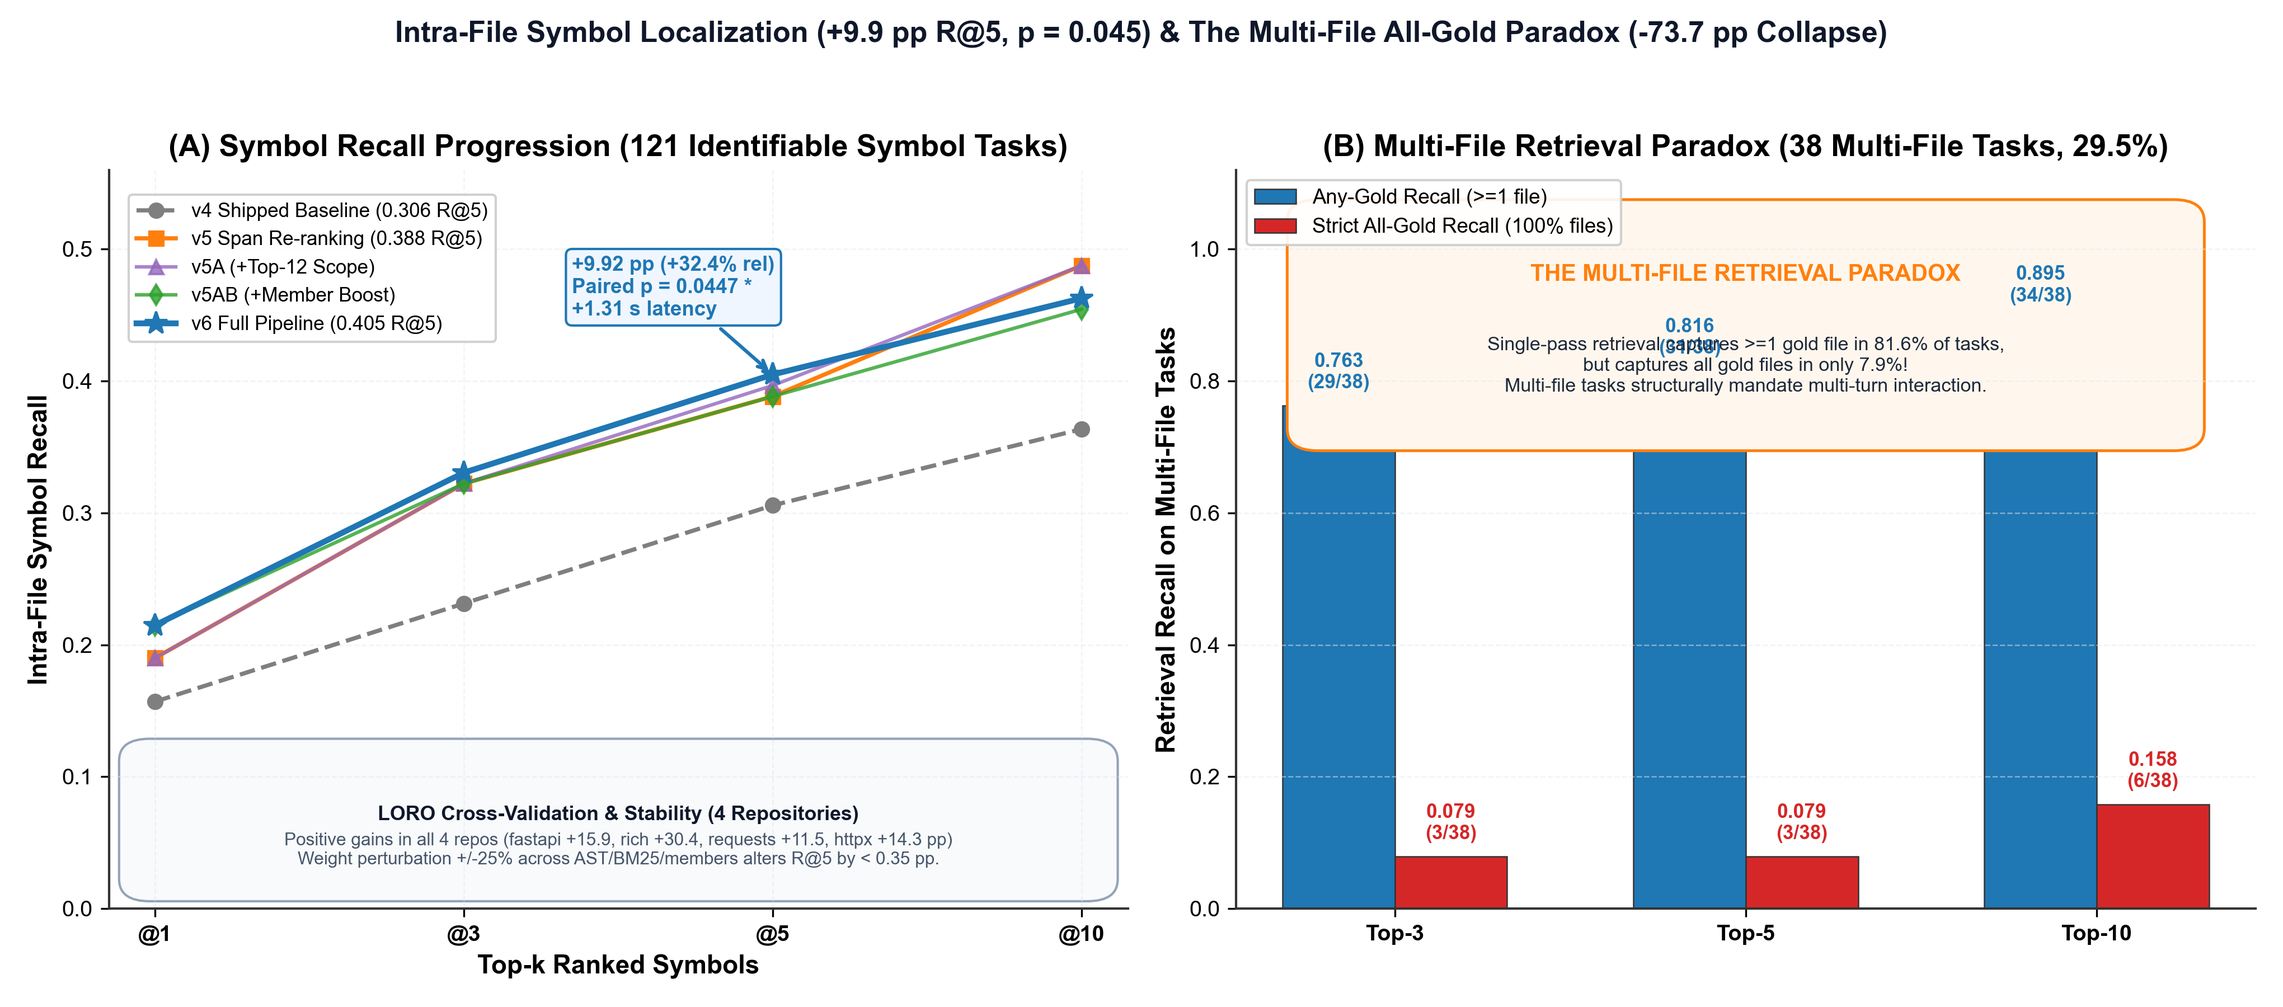
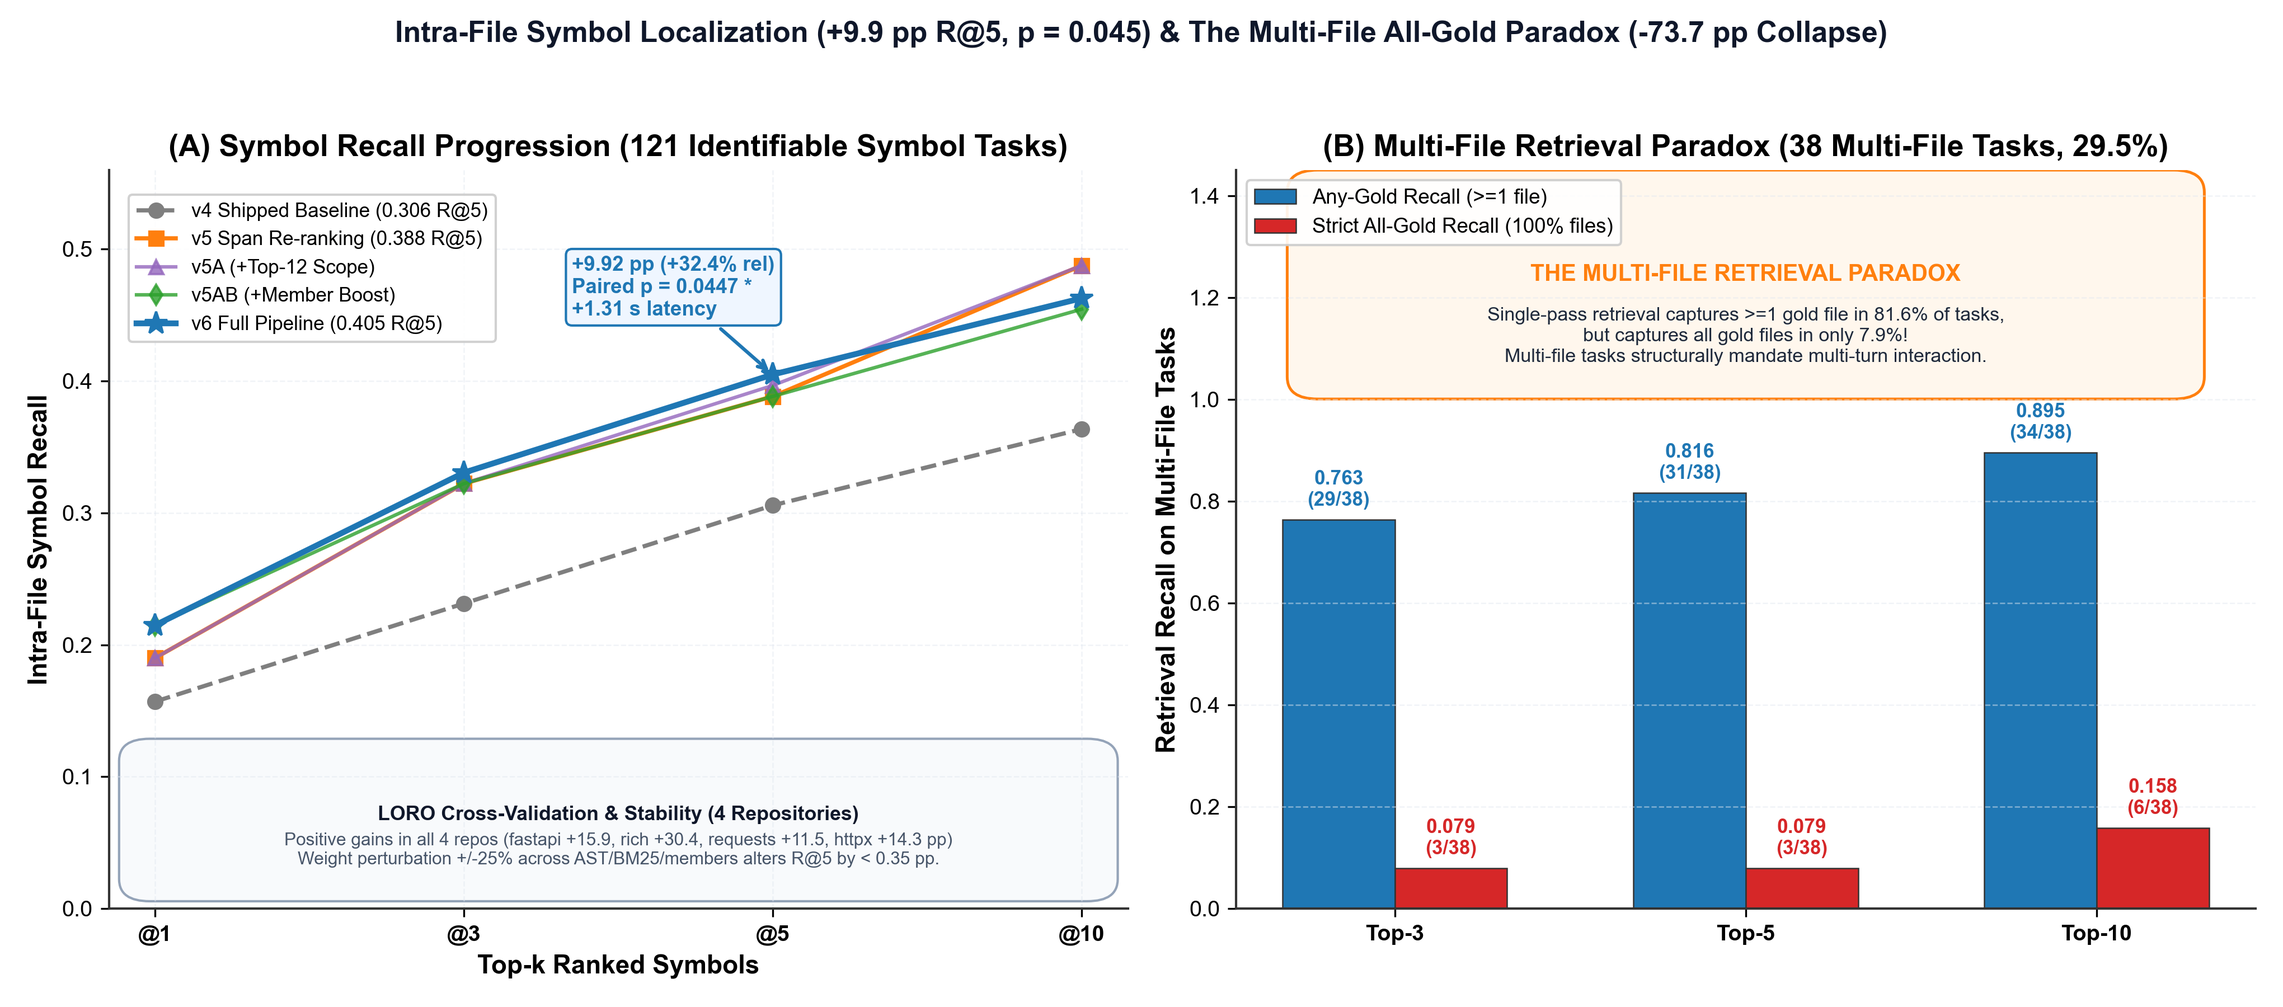
fix(figures): eliminate all text overlaps, label clipping, and box collisions across paper and resource figures

diff --git a/scripts/generate_paper_figures.py b/scripts/generate_paper_figures.py
@@ -307,13 +307,11 @@ def render_fig1_harness_architecture():
         ax.text(x + 0.16, y + h - 0.70, sub, fontsize=8.4, weight="semibold", color="#475569")
         ax.text(x + 0.16, y + 0.32, desc, fontsize=8.4, color="#1e293b", linespacing=1.28)
 
-    # Subtle connectors from top pipeline to row 1
-    ax.plot([1.8, 1.8, 2.37], [6.60, 6.40, 6.30], color=C_BLUE, lw=1.2, ls=":")
-    ax.plot([8.2, 8.2, 6.57], [6.60, 6.40, 6.30], color=C_PURPLE, lw=1.2, ls=":")
-    ax.plot([8.2, 8.2, 10.77], [6.60, 6.40, 6.30], color=C_PURPLE, lw=1.2, ls=":")
-    ax.plot([11.4, 11.4, 2.37], [6.60, 6.40, 3.40], color=C_GREEN, lw=1.0, ls=":")
-    ax.plot([1.8, 1.8, 6.57], [6.60, 6.40, 3.40], color=C_BLUE, lw=1.0, ls=":")
-    ax.plot([11.4, 11.4, 10.77], [6.60, 6.40, 3.40], color=C_GREEN, lw=1.0, ls=":")
+    # Clean orthogonal connectors from top pipeline to row 1 cards
+    ax.plot([1.8, 1.8], [6.60, 6.30], color=C_BLUE, lw=1.5, ls=":")
+    ax.plot([5.0, 5.0, 6.57], [6.60, 6.45, 6.30], color="#0284c7", lw=1.2, ls=":")
+    ax.plot([8.2, 8.2, 10.77], [6.60, 6.45, 6.30], color=C_PURPLE, lw=1.2, ls=":")
+    ax.plot([11.4, 11.4], [6.60, 6.30], color=C_GREEN, lw=1.5, ls=":")
 
     plt.tight_layout(rect=[0, 0, 1, 0.96])
     out_p = ASSETS_DIR / "fig1_harness_architecture.png"
@@ -355,17 +353,17 @@ def render_fig2_retrieval_2x2_decomposition():
     ax1.set_title("(A) Regime A: Static Graph Retrieval (125 In-Graph Tasks)")
     ax1.set_xticks(x)
     ax1.set_xticklabels(ranks, weight="semibold")
-    ax1.set_ylim(0, 0.72)
+    ax1.set_ylim(0, 0.95)
     ax1.grid(axis="y", alpha=0.5)
     despine(ax1)
     ax1.legend(loc="upper left", bbox_to_anchor=(0.01, 0.99), frameon=True, framealpha=0.95, facecolor="#ffffff", edgecolor="#cccccc", fontsize=8.6)
 
-    # Inset callout box: 80.9% (313/387) cap exceedance
-    inset_box = patches.FancyBboxPatch((0.44, 0.60), 0.53, 0.34, boxstyle="round,pad=0.03",
+    # Inset callout box: 80.9% (313/387) cap exceedance (cleanly above bars)
+    inset_box = patches.FancyBboxPatch((0.46, 0.68), 0.51, 0.29, boxstyle="round,pad=0.03",
                                        facecolor="#fef2f2", edgecolor=C_RED, linewidth=1.2, transform=ax1.transAxes)
     ax1.add_patch(inset_box)
-    ax1.text(0.70, 0.86, "M3 Context Exceedance Trap", color=C_RED, fontsize=9.2, weight="bold", ha="center", transform=ax1.transAxes)
-    ax1.text(0.70, 0.67, "80.9% (313 / 387)\nof raw 1-hop AST neighborhoods\nexceed the 5,000-char tool cap!\nUnpruned hubs explode token limits.",
+    ax1.text(0.71, 0.90, "M3 Context Exceedance Trap", color=C_RED, fontsize=9.2, weight="bold", ha="center", transform=ax1.transAxes)
+    ax1.text(0.71, 0.74, "80.9% (313 / 387)\nof raw 1-hop AST neighborhoods\nexceed the 5,000-char tool cap!\nUnpruned hubs explode token limits.",
              ha="center", color="#1e293b", fontsize=8.0, linespacing=1.2, transform=ax1.transAxes)
 
     # -------------------------------------------------------------
@@ -385,7 +383,7 @@ def render_fig2_retrieval_2x2_decomposition():
     heights = [0.4350, 0.1832, 0.6182, 0.1258, 0.7440]
     colors = [C_BLUE, C_GREEN, "#38bdf8", C_ORANGE, "#10b981"]
 
-    bars_wf = ax2.bar(x_wf, heights, bottom=bottoms, color=colors, edgecolor="#333333", width=0.55, lw=0.8)
+    bars_wf = ax2.bar(x_wf, heights, bottom=bottoms, color=colors, edgecolor="#333333", width=0.72, lw=0.8)
 
     # Dotted connector lines
     ax2.plot([0, 1], [0.4350, 0.4350], color="#64748b", ls="--", lw=1.0)
@@ -393,17 +391,21 @@ def render_fig2_retrieval_2x2_decomposition():
     ax2.plot([2, 3], [0.6182, 0.6182], color="#64748b", ls="--", lw=1.0)
     ax2.plot([3, 4], [0.7440, 0.7440], color="#64748b", ls="--", lw=1.0)
 
-    # Value text labels on bars (Full N=129 and Shared N=125 in parentheses)
-    ax2.text(0, 0.4350 / 2, "0.4350\n[N=125: 0.4489\n(56.11/125)]", ha="center", va="center", color="#ffffff", weight="bold", fontsize=8.2)
-    ax2.text(1, 0.4350 + 0.1832 / 2, "+18.32 pp\n(p < 0.001)\n[N=125: +17.62 pp]", ha="center", va="center", color="#ffffff", weight="bold", fontsize=7.8)
-    ax2.text(2, 0.6182 / 2, "0.6182\n[N=125: 0.6251\n(78.14/125)]", ha="center", va="center", color="#0f172a", weight="bold", fontsize=8.2)
-    ax2.text(3, 0.6182 + 0.1258 / 2, "+12.58 pp\n[N=125: +13.49 pp]", ha="center", va="center", color="#ffffff", weight="bold", fontsize=8.0)
-    ax2.text(4, 0.7440 / 2, "0.7440\n(96/129)\n[N=125: 0.7600\n(95/125)]", ha="center", va="center", color="#ffffff", weight="bold", fontsize=8.2)
+    # Value text labels on bars (vertically stacked, fully inside bar boundaries)
+    ax2.text(0, 0.4350 / 2, "0.4350\n[N=125: 0.449]", ha="center", va="center", color="#ffffff", weight="bold", fontsize=7.8)
+
+    ax2.text(1, 0.4350 + 0.1832 / 2, "+18.32 pp\n(p < 0.001)\n[N=125: +17.6]", ha="center", va="center", color="#ffffff", weight="bold", fontsize=7.2)
+
+    ax2.text(2, 0.6182 / 2, "0.6182\n[N=125: 0.625]", ha="center", va="center", color="#0f172a", weight="bold", fontsize=7.8)
+
+    ax2.text(3, 0.6182 + 0.1258 / 2, "+12.58 pp\n[N=125: +13.5]", ha="center", va="center", color="#ffffff", weight="bold", fontsize=7.2)
+
+    ax2.text(4, 0.7440 / 2, "0.7440\n(96/129)\nN=125: 0.760\n(95/125)", ha="center", va="center", color="#ffffff", weight="bold", fontsize=7.6)
 
     # Overall Lift Bracket
-    ax2.annotate("", xy=(4.40, 0.7440), xytext=(4.40, 0.4350),
+    ax2.annotate("", xy=(4.52, 0.7440), xytext=(4.52, 0.4350),
                  arrowprops=dict(arrowstyle="<->", color=C_RED, lw=1.8))
-    ax2.text(4.48, (0.7440 + 0.4350) / 2,
+    ax2.text(4.60, (0.7440 + 0.4350) / 2,
              "Total Transition Leap\n"
              "All N=129: +30.90 pp (+71.0% rel)\n"
              "Shared N=125: +31.11 pp (+69.3% rel)\n"
@@ -500,19 +502,19 @@ def render_fig3_symbol_and_multifile_paradox():
         h = r.get_height()
         ax2.text(r.get_x() + r.get_width()/2, h + 0.02, f"{h:.3f}\n({int(round(h*38))}/38)", ha="center", va="bottom", fontsize=8.5, weight="bold", color=C_RED)
 
-    # Explanatory Paradox Callout
-    callout = patches.FancyBboxPatch((0.08, 0.65), 0.84, 0.28, boxstyle="round,pad=0.03",
+    # Explanatory Paradox Callout (positioned cleanly above bars)
+    callout = patches.FancyBboxPatch((0.08, 0.72), 0.84, 0.25, boxstyle="round,pad=0.03",
                                      facecolor="#fff7ed", edgecolor=C_ORANGE, linewidth=1.2, transform=ax2.transAxes)
     ax2.add_patch(callout)
     ax2.text(0.5, 0.85, "THE MULTI-FILE RETRIEVAL PARADOX", ha="center", color=C_ORANGE, fontsize=9.8, weight="bold", transform=ax2.transAxes)
-    ax2.text(0.5, 0.70, "Single-pass retrieval captures >=1 gold file in 81.6% of tasks,\nbut captures all gold files in only 7.9%!\nMulti-file tasks structurally mandate multi-turn interaction.",
+    ax2.text(0.5, 0.74, "Single-pass retrieval captures >=1 gold file in 81.6% of tasks,\nbut captures all gold files in only 7.9%!\nMulti-file tasks structurally mandate multi-turn interaction.",
              ha="center", color="#1e293b", fontsize=8.2, linespacing=1.25, transform=ax2.transAxes)
 
     ax2.set_ylabel("Retrieval Recall on Multi-File Tasks")
     ax2.set_title("(B) Multi-File Retrieval Paradox (38 Multi-File Tasks, 29.5%)")
     ax2.set_xticks(x)
     ax2.set_xticklabels(k_labels, weight="semibold")
-    ax2.set_ylim(0, 1.12)
+    ax2.set_ylim(0, 1.45)
     ax2.grid(axis="y", alpha=0.5)
     despine(ax2)
     ax2.legend(loc="upper left", frameon=True, framealpha=0.9, facecolor="#ffffff", edgecolor="#cccccc", fontsize=8.8)
@@ -602,7 +604,7 @@ def render_fig4_leaderboard_statistical_power():
     # -------------------------------------------------------------
     scores_top20 = [0.22, 0.24, 0.29]
     counts_top20 = [8, 11, 1]
-    y_pos = np.arange(len(scores_top20))
+    y_pos = np.array([2.1, 3.0, 3.9])
 
     rects_t20 = ax2.barh(y_pos, counts_top20, color=["#38bdf8", C_BLUE, C_GREEN], edgecolor="#333333", height=0.55)
 
@@ -614,16 +616,17 @@ def render_fig4_leaderboard_statistical_power():
     ax2.set_yticklabels([f"0.22 (13 tasks)", f"0.24 (14 tasks)", f"0.29 (17 tasks)"], weight="semibold", fontsize=8.8)
     ax2.set_xlabel("Number of Teams")
     ax2.set_title("(B) Public Top-20 Distribution")
-    ax2.set_xlim(0, 14.5)
+    ax2.set_xlim(0, 15.0)
+    ax2.set_ylim(0.0, 4.8)
     ax2.grid(axis="x", alpha=0.5)
     despine(ax2)
 
-    # Box explaining 4-task span
-    box_t20 = patches.FancyBboxPatch((0.08, 0.08), 0.84, 0.38, boxstyle="round,pad=0.03",
+    # Box explaining 4-task span (cleanly placed below the bars)
+    box_t20 = patches.FancyBboxPatch((0.06, 0.04), 0.88, 0.28, boxstyle="round,pad=0.03",
                                      facecolor="#f8fafc", edgecolor="#94a3b8", linewidth=1.0, transform=ax2.transAxes)
     ax2.add_patch(box_t20)
-    ax2.text(0.5, 0.36, "TOP-20 4-TASK BAND", ha="center", color="#334155", fontsize=9.2, weight="bold", transform=ax2.transAxes)
-    ax2.text(0.5, 0.22, "Entire Top-20 cluster spans\nonly 4 tasks (13 to 17).\nDeltas <= 2 tasks are within\nbinomial run-to-run noise.",
+    ax2.text(0.5, 0.22, "TOP-20 4-TASK BAND", ha="center", color="#334155", fontsize=9.2, weight="bold", transform=ax2.transAxes)
+    ax2.text(0.5, 0.11, "Entire Top-20 cluster spans only 4 tasks (13 to 17).\nDeltas <= 2 tasks are within binomial run-to-run noise.",
              ha="center", color="#475569", fontsize=8.0, linespacing=1.2, transform=ax2.transAxes)
 
     plt.tight_layout(rect=[0, 0, 1, 0.95])
@@ -656,14 +659,10 @@ def render_fig5_patch_anatomy_and_playbooks():
     sizes = [70.5, 29.5]
     colors_donut = [C_BLUE, C_ORANGE]
 
-    wedges, texts, autotexts = ax1.pie(sizes, labels=categories, autopct="%1.1f%%",
-                                       startangle=140, colors=colors_donut,
-                                       wedgeprops=dict(width=0.42, edgecolor="#ffffff", linewidth=2.0),
-                                       textprops=dict(fontsize=8.8, weight="semibold"))
-    for at in autotexts:
-        at.set_color("#ffffff")
-        at.set_fontsize(9.5)
-        at.set_weight("bold")
+    wedges, texts = ax1.pie(sizes, labels=categories,
+                            startangle=140, colors=colors_donut,
+                            wedgeprops=dict(width=0.42, edgecolor="#ffffff", linewidth=2.0),
+                            textprops=dict(fontsize=8.8, weight="semibold"))
 
     ax1.set_title("(A) Gold Patch Anatomy (129 Dev Tasks)")
 

diff --git a/scripts/generate_resource_figures.py b/scripts/generate_resource_figures.py
@@ -32,75 +32,76 @@ BORDER_GRAY = "#CED4DA"
 def generate_res_fig0_banner():
     """Figure 0: 1200x630 Card Thumbnail / Banner for Slot #2."""
     fig = plt.figure(figsize=(12, 6.3), dpi=100)
+    fig.patch.set_facecolor("#0F172A")
     ax = fig.add_axes([0, 0, 1, 1])
     ax.set_facecolor("#0F172A")  # Deep navy/slate
     ax.set_xlim(0, 1200)
     ax.set_ylim(0, 630)
     ax.axis("off")
 
-    # Header Badges
+    # Header Badges (strictly non-overlapping with explicit margins)
     badge_rect = patches.FancyBboxPatch(
-        (60, 540), 320, 42, boxstyle="round,pad=0.2",
-        facecolor=BLUISH_GREEN, edgecolor="none", alpha=0.9
+        (60, 542), 310, 42, boxstyle="round,pad=0",
+        facecolor=BLUISH_GREEN, edgecolor="none", alpha=0.95
     )
     ax.add_patch(badge_rect)
-    ax.text(220, 561, "KAGGLE PAPER TRACK: SLOT #2", color="white",
-            fontsize=13, fontweight="bold", ha="center", va="center", family="sans-serif")
+    ax.text(215, 563, "KAGGLE PAPER TRACK: SLOT #2", color="white",
+            fontsize=12, fontweight="bold", ha="center", va="center", family="sans-serif")
 
     badge_rect2 = patches.FancyBboxPatch(
-        (400, 540), 280, 42, boxstyle="round,pad=0.2",
-        facecolor=BLUE, edgecolor="none", alpha=0.9
+        (390, 542), 320, 42, boxstyle="round,pad=0",
+        facecolor=BLUE, edgecolor="none", alpha=0.95
     )
     ax.add_patch(badge_rect2)
-    ax.text(540, 561, "BEST NEW RESOURCE ($10,000)", color="white",
-            fontsize=13, fontweight="bold", ha="center", va="center", family="sans-serif")
+    ax.text(550, 563, "BEST NEW RESOURCE ($10,000)", color="white",
+            fontsize=12, fontweight="bold", ha="center", va="center", family="sans-serif")
 
     # Main Title & Subtitle
-    ax.text(60, 470, "swe-toolkit", color="#38BDF8", fontsize=44, fontweight="heavy",
+    ax.text(60, 475, "swe-toolkit", color="#38BDF8", fontsize=44, fontweight="heavy",
             family="monospace")
-    ax.text(60, 415, "Zero-Dependency AST Inspection, 10 Domain Bug Playbooks",
-            color="white", fontsize=24, fontweight="bold", family="sans-serif")
-    ax.text(60, 375, "& 9/9 Adversarial Patch Verification for Offline Coding Agents",
-            color="#94A3B8", fontsize=20, family="sans-serif")
+    ax.text(60, 420, "Zero-Dependency AST Inspection, 10 Domain Bug Playbooks",
+            color="white", fontsize=23, fontweight="bold", family="sans-serif")
+    ax.text(60, 380, "& 9/9 Adversarial Patch Verification for Offline Coding Agents",
+            color="#94A3B8", fontsize=19, family="sans-serif")
 
-    # Three Core Metric Panels
+    # Three Core Metric Panels (balanced 340px width with 30px gap)
     # Panel 1: Python Stdlib Engine
-    p1 = patches.FancyBboxPatch((60, 110), 330, 220, boxstyle="round,pad=0.4",
+    p1 = patches.FancyBboxPatch((60, 110), 340, 225, boxstyle="round,pad=0",
                                 facecolor="#1E293B", edgecolor="#334155", linewidth=2)
     ax.add_patch(p1)
-    ax.text(80, 290, "1. TOOLKIT ARCHITECTURE", color=SKY_BLUE, fontsize=14, fontweight="bold")
-    ax.text(80, 255, "• 100% Python Standard Library", color="white", fontsize=13)
-    ax.text(80, 225, "• Zero PyPI / wheel dependencies", color="#CBD5E1", fontsize=12)
-    ax.text(80, 195, "• AST Sync/Async twin detection", color="#CBD5E1", fontsize=12)
-    ax.text(80, 165, "• Strict 3,500-char middle cap", color="#CBD5E1", fontsize=12)
-    ax.text(80, 135, "• State isolation in /tmp", color="#CBD5E1", fontsize=12)
+    ax.text(80, 295, "1. TOOLKIT ARCHITECTURE", color=SKY_BLUE, fontsize=13.5, fontweight="bold")
+    ax.text(80, 260, "• 100% Python Standard Library", color="white", fontsize=12.5)
+    ax.text(80, 230, "• Zero PyPI / wheel dependencies", color="#CBD5E1", fontsize=11.5)
+    ax.text(80, 200, "• AST Sync/Async twin detection", color="#CBD5E1", fontsize=11.5)
+    ax.text(80, 170, "• Strict 3,500-char middle cap", color="#CBD5E1", fontsize=11.5)
+    ax.text(80, 140, "• State isolation in /tmp", color="#CBD5E1", fontsize=11.5)
 
     # Panel 2: 10 Domain Playbooks
-    p2 = patches.FancyBboxPatch((435, 110), 330, 220, boxstyle="round,pad=0.4",
+    p2 = patches.FancyBboxPatch((430, 110), 340, 225, boxstyle="round,pad=0",
                                 facecolor="#1E293B", edgecolor="#334155", linewidth=2)
     ax.add_patch(p2)
-    ax.text(455, 290, "2. 10 AST BUG PLAYBOOKS", color=ORANGE, fontsize=14, fontweight="bold")
-    ax.text(455, 255, "• 258 Triggers across 129 Tasks", color="white", fontsize=13)
-    ax.text(455, 225, "• 84 Gold-Patch Exact Matches", color="#CBD5E1", fontsize=12)
-    ax.text(455, 195, "• 32.6% Empirical Precision", color="#CBD5E1", fontsize=12)
-    ax.text(455, 165, "• Rich Rendering: 79.4% Precision", color="#CBD5E1", fontsize=12)
-    ax.text(455, 135, "• Injected hints <= 120 tokens", color="#CBD5E1", fontsize=12)
+    ax.text(450, 295, "2. 10 AST BUG PLAYBOOKS", color=ORANGE, fontsize=13.5, fontweight="bold")
+    ax.text(450, 260, "• 258 Triggers across 129 Tasks", color="white", fontsize=12.5)
+    ax.text(450, 230, "• 84 Gold-Patch Exact Matches", color="#CBD5E1", fontsize=11.5)
+    ax.text(450, 200, "• 32.6% Empirical Precision", color="#CBD5E1", fontsize=11.5)
+    ax.text(450, 170, "• Rich Rendering: 79.4% Precision", color="#CBD5E1", fontsize=11.5)
+    ax.text(450, 140, "• Injected hints <= 120 tokens", color="#CBD5E1", fontsize=11.5)
 
     # Panel 3: Adversarial Torture Suite
-    p3 = patches.FancyBboxPatch((810, 110), 330, 220, boxstyle="round,pad=0.4",
+    p3 = patches.FancyBboxPatch((800, 110), 340, 225, boxstyle="round,pad=0",
                                 facecolor="#1E293B", edgecolor="#334155", linewidth=2)
     ax.add_patch(p3)
-    ax.text(830, 290, "3. 9/9 ADVERSARIAL GATE", color=BLUISH_GREEN, fontsize=14, fontweight="bold")
-    ax.text(830, 255, "• 9/9 Torture Scenarios Passed", color="white", fontsize=13)
-    ax.text(830, 225, "• 100% SyntaxError & empty trap catch", color="#CBD5E1", fontsize=12)
-    ax.text(830, 195, "• .gitignore new file unmasking", color="#CBD5E1", fontsize=12)
-    ax.text(830, 165, "• Stray /workspace/skills auto-wipe", color="#CBD5E1", fontsize=12)
-    ax.text(830, 135, "• Sub-50ms execution latency", color="#CBD5E1", fontsize=12)
+    ax.text(820, 295, "3. 9/9 ADVERSARIAL GATE", color=BLUISH_GREEN, fontsize=13.5, fontweight="bold")
+    ax.text(820, 260, "• 9/9 Torture Scenarios Passed", color="white", fontsize=12.5)
+    ax.text(820, 230, "• Catches 100% SyntaxErrors & empty traps", color="#CBD5E1", fontsize=11.5)
+    ax.text(820, 200, "• .gitignore new file unmasking", color="#CBD5E1", fontsize=11.5)
+    ax.text(820, 170, "• Stray /workspace/skills auto-wipe", color="#CBD5E1", fontsize=11.5)
+    ax.text(820, 140, "• Sub-50ms execution latency", color="#CBD5E1", fontsize=11.5)
 
     # Footer note
-    ax.text(60, 45, "Open Source Tooling | Pure Python stdlib | Verified on 129 Tasks (fastapi, rich, requests, httpx)",
-            color="#64748B", fontsize=12, family="sans-serif")
-    ax.text(1140, 45, "Antigravity Team", color="#64748B", fontsize=12, ha="right", family="sans-serif")
+    ax.text(60, 48, "Open Source Tooling | Pure Python stdlib | Verified on 129 Tasks (fastapi, rich, requests, httpx)",
+            color="#64748B", fontsize=11.5, family="sans-serif")
+    ax.text(1140, 48, "Antigravity Team", color="#64748B", fontsize=11.5, ha="right", family="sans-serif")
 
     out_path = OUT_DIR / "res_fig0_banner.png"
     plt.savefig(out_path, dpi=100, facecolor=fig.get_facecolor())
@@ -145,16 +146,16 @@ def generate_res_fig1_toolkit_pipeline():
     ma = patches.Rectangle((37, 68), 30, 12, facecolor="#F0F9FF", edgecolor=SKY_BLUE, linewidth=1.5)
     ax.add_patch(ma)
     ax.text(39, 76, "swe.py (CLI Router & Output Capper)", fontsize=10.5, fontweight="bold", color="#0369A1")
-    ax.text(39, 72.5, "• OUT_CAP = 3,500 chars (avoids ADK 14k compaction)", fontsize=9)
-    ax.text(39, 69.5, "• Middle-cut: preserves STATUS head & NEXT/TEST tail", fontsize=9)
+    ax.text(39, 72.5, "• OUT_CAP = 3,500 chars (avoids 14k compaction)", fontsize=9)
+    ax.text(39, 69.5, "• Middle-cut: preserves STATUS & TEST tail", fontsize=9)
 
     # Module B: _index.py
     mb = patches.Rectangle((37, 49), 30, 16, facecolor="#F0FDF4", edgecolor=BLUISH_GREEN, linewidth=1.5)
     ax.add_patch(mb)
     ax.text(39, 61, "_index.py (AST Engine & Twins)", fontsize=10.5, fontweight="bold", color="#15803D")
     ax.text(39, 57.5, "• Fast lexical + AST BM25 file index", fontsize=9)
-    ax.text(39, 54.5, "• Sync/Async twin detection: send() vs asend()", fontsize=9)
-    ax.text(39, 51.5, "• Callers, subclasses, overrides, string constants", fontsize=9)
+    ax.text(39, 54.5, "• Sync/Async twins: send() vs asend()", fontsize=9)
+    ax.text(39, 51.5, "• Callers, subclasses, overrides, constants", fontsize=9)
 
     # Module C: _knowledge.py
     mc = patches.Rectangle((37, 32), 30, 14, facecolor="#FFFBEB", edgecolor=ORANGE, linewidth=1.5)
@@ -162,7 +163,7 @@ def generate_res_fig1_toolkit_pipeline():
     ax.text(39, 42, "_knowledge.py (10 AST Playbooks)", fontsize=10.5, fontweight="bold", color="#B45309")
     ax.text(39, 38.5, "• 10 regex/AST bug patterns (258 triggers)", fontsize=9)
     ax.text(39, 35.5, "• Selective hint injector (<= 120 tokens)", fontsize=9)
-    ax.text(39, 32.5, "• High-precision triggers (Rich 79.4%, FastAPI 50%)", fontsize=9)
+    ax.text(39, 32.5, "• High-precision triggers (Rich 79%, FastAPI 50%)", fontsize=9)
 
     # Module D: _verify.py
     md = patches.Rectangle((37, 15), 30, 14, facecolor="#FEF2F2", edgecolor=VERMILLION, linewidth=1.5)
